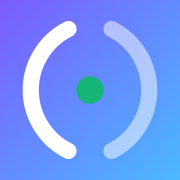
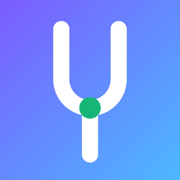
Wear the fork instead, and settle on one spelling of practice
Fork P replaces Duet across the icons, the maskable variant, the launch
screen, the share image and the wordmark in the app — all five come out of
tools/icon.html, so this was one shape and a re-render.

And one spelling throughout. Practise is the verb in British English and
practice the noun, so "practise" was defensible on its own line — but the
app is called Practice Partner, so the two sat a paragraph apart looking
like a mistake either way. The name is the noun and the name wins.

Changed region(s): [[0.1111, 0.1111, 0.8889, 0.9167]]

diff --git a/index.html b/index.html
@@ -1703,8 +1703,8 @@
        instrument has ever been chosen, so it never flashes on a return visit. -->
   <div id="welcome" hidden>
     <div id="welcome-card" role="dialog" aria-labelledby="welcome-title" aria-modal="true">
-      <h2 id="welcome-title">practice <svg class="mark" viewBox="0 0 100 100" aria-hidden="true"><path d="M38 16 A 38 38 0 0 0 38 84" fill="none" stroke="currentColor" stroke-width="9" stroke-linecap="round"/><path d="M62 16 A 38 38 0 0 1 62 84" fill="none" stroke="currentColor" stroke-opacity="0.45" stroke-width="9" stroke-linecap="round"/><circle cx="50" cy="50" r="7.5" fill="var(--good)"/></svg> partner</h2>
-      <p class="welcome-lead">It listens while you practise and tells you what actually
+      <h2 id="welcome-title">practice <svg class="mark" viewBox="0 0 100 100" aria-hidden="true"><path d="M34 16 L34 44 A 16 16 0 0 0 66 44 L66 16" fill="none" stroke="currentColor" stroke-width="9" stroke-linecap="round"/><path d="M50 60 L50 86" fill="none" stroke="currentColor" stroke-width="9" stroke-linecap="round"/><circle cx="50" cy="60" r="6" fill="var(--good)"/></svg> partner</h2>
+      <p class="welcome-lead">It listens while you practice and tells you what actually
       happened — which notes ran sharp or flat, where the tempo moved, and how cleanly
       you land after a leap.</p>
 
@@ -1727,7 +1727,7 @@
     </div>
   </div>
   <header>
-    <h1>practice <svg class="mark" viewBox="0 0 100 100" aria-hidden="true"><path d="M38 16 A 38 38 0 0 0 38 84" fill="none" stroke="currentColor" stroke-width="9" stroke-linecap="round"/><path d="M62 16 A 38 38 0 0 1 62 84" fill="none" stroke="currentColor" stroke-opacity="0.45" stroke-width="9" stroke-linecap="round"/><circle cx="50" cy="50" r="7.5" fill="var(--good)"/></svg> partner</h1>
+    <h1>practice <svg class="mark" viewBox="0 0 100 100" aria-hidden="true"><path d="M34 16 L34 44 A 16 16 0 0 0 66 44 L66 16" fill="none" stroke="currentColor" stroke-width="9" stroke-linecap="round"/><path d="M50 60 L50 86" fill="none" stroke="currentColor" stroke-width="9" stroke-linecap="round"/><circle cx="50" cy="60" r="6" fill="var(--good)"/></svg> partner</h1>
     <button id="settings-btn" type="button" aria-label="Settings">
       <svg viewBox="0 0 24 24" fill="none" stroke="currentColor" stroke-width="1.7" stroke-linecap="round" stroke-linejoin="round">
         <path d="M12.22 2h-.44a2 2 0 0 0-2 2v.18a2 2 0 0 1-1 1.73l-.43.25a2 2 0 0 1-2 0l-.15-.08a2 2 0 0 0-2.73.73l-.22.38a2 2 0 0 0 .73 2.73l.15.1a2 2 0 0 1 1 1.72v.51a2 2 0 0 1-1 1.74l-.15.09a2 2 0 0 0-.73 2.73l.22.38a2 2 0 0 0 2.73.73l.15-.08a2 2 0 0 1 2 0l.43.25a2 2 0 0 1 1 1.73V20a2 2 0 0 0 2 2h.44a2 2 0 0 0 2-2v-.18a2 2 0 0 1 1-1.73l.43-.25a2 2 0 0 1 2 0l.15.08a2 2 0 0 0 2.73-.73l.22-.39a2 2 0 0 0-.73-2.73l-.15-.08a2 2 0 0 1-1-1.74v-.5a2 2 0 0 1 1-1.74l.15-.09a2 2 0 0 0 .73-2.73l-.22-.38a2 2 0 0 0-2.73-.73l-.15.08a2 2 0 0 1-2 0l-.43-.25a2 2 0 0 1-1-1.73V4a2 2 0 0 0-2-2z" />

diff --git a/tools/icon.html b/tools/icon.html
@@ -65,16 +65,15 @@
 </head>
 <body>
   <div class="tile">
-    <!-- Duet: two arcs turned toward each other, meeting on the note they
-         agree about. One of them is you and one is the thing listening — the
-         only mark of the six that would not have suited a plain tuner, which
-         is the whole reason the app has a different name now. -->
+    <!-- Fork P: a tuning fork whose prongs close into the bowl of a P, with the
+         green centre the rest of the app uses for "in tune" sitting where the
+         stem begins. -->
     <svg class="gauge" viewBox="0 0 300 300" width="512" height="512" aria-hidden="true">
-      <path d="M114 48 A 114 114 0 0 0 114 252" fill="none"
+      <path d="M102 48 L102 132 A 48 48 0 0 0 198 132 L198 48" fill="none"
             stroke="currentColor" stroke-width="27" stroke-linecap="round" />
-      <path d="M186 48 A 114 114 0 0 1 186 252" fill="none"
-            stroke="currentColor" stroke-opacity="0.5" stroke-width="27" stroke-linecap="round" />
-      <circle cx="150" cy="150" r="23" fill="#17b578" />
+      <path d="M150 180 L150 258" fill="none"
+            stroke="currentColor" stroke-width="27" stroke-linecap="round" />
+      <circle cx="150" cy="180" r="18" fill="#17b578" />
     </svg>
     <div class="words" hidden>
       <h1>Practice Partner</h1>

diff --git a/src/ui/pitch-chart.js b/src/ui/pitch-chart.js
@@ -283,7 +283,7 @@ function nearestPoint(pts, time, key) {
 //
 // It used to be one canvas as wide as the whole take. That is fine for the
 // ten-second scales this was built against and falls apart at the length people
-// actually practise: a ten-minute take at 120 px/s wants 72,000 px, which
+// actually practice: a ten-minute take at 120 px/s wants 72,000 px, which
 // blew past the 24,000 px cap (silently compressing the time axis threefold),
 // exceeded the maximum canvas area Safari will allocate at all, and cost ~100 MB
 // of texture. Worse, every playhead move repainted the entire thing — measured

diff --git a/src/analysis/instruments.js b/src/analysis/instruments.js
@@ -7,7 +7,7 @@
 // two octaves apart, or that a clarinet reads a written C and sounds a B flat.
 //
 // A profile is that knowledge in one place: the vocabulary for how you get from
-// one note to the next, which drone sounds like the room you practise in, and
+// one note to the next, which drone sounds like the room you practice in, and
 // what to try when a kind of reach keeps landing badly. Everything user-facing
 // asks the profile rather than assuming a fingerboard.
 //
